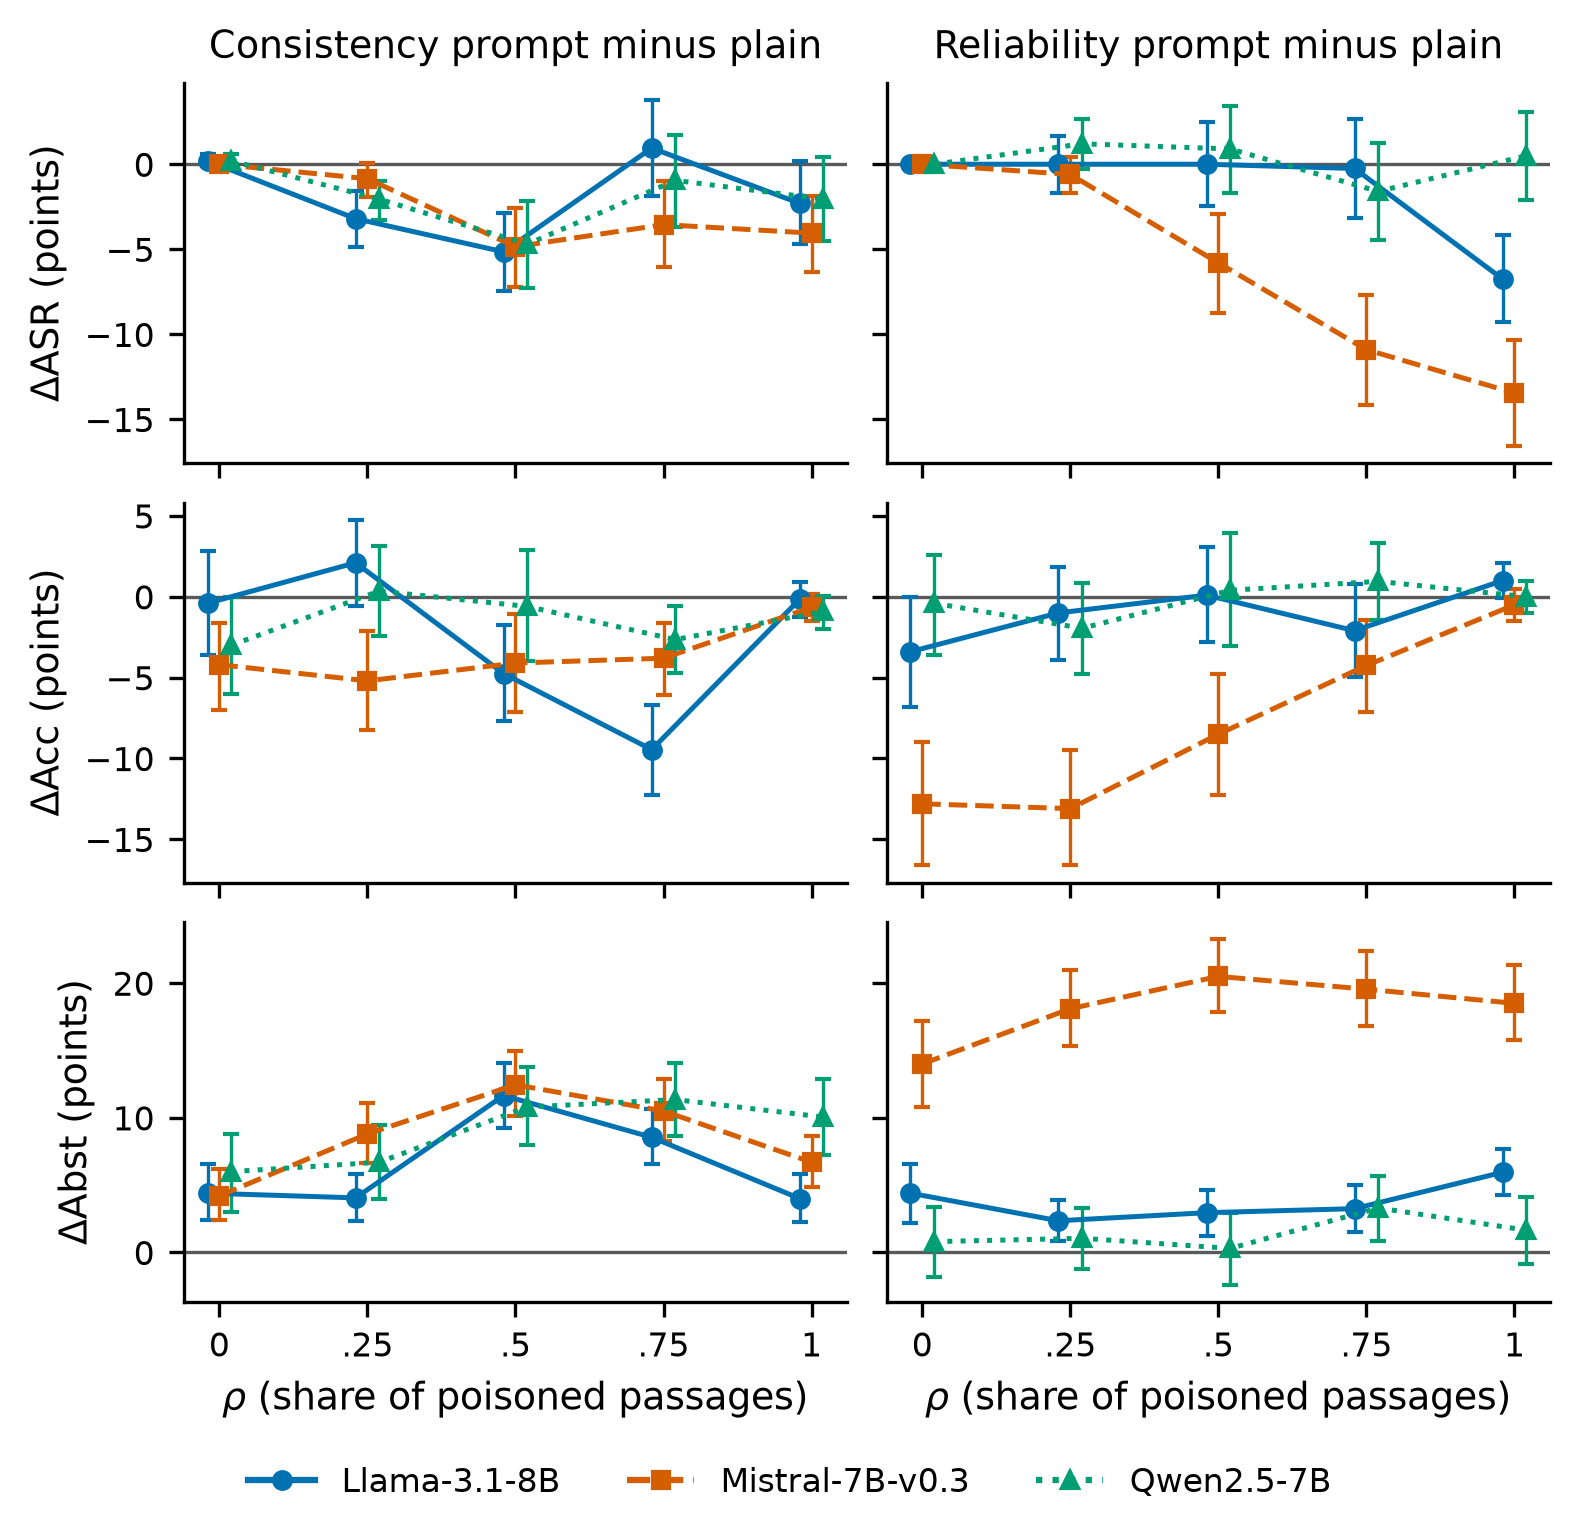
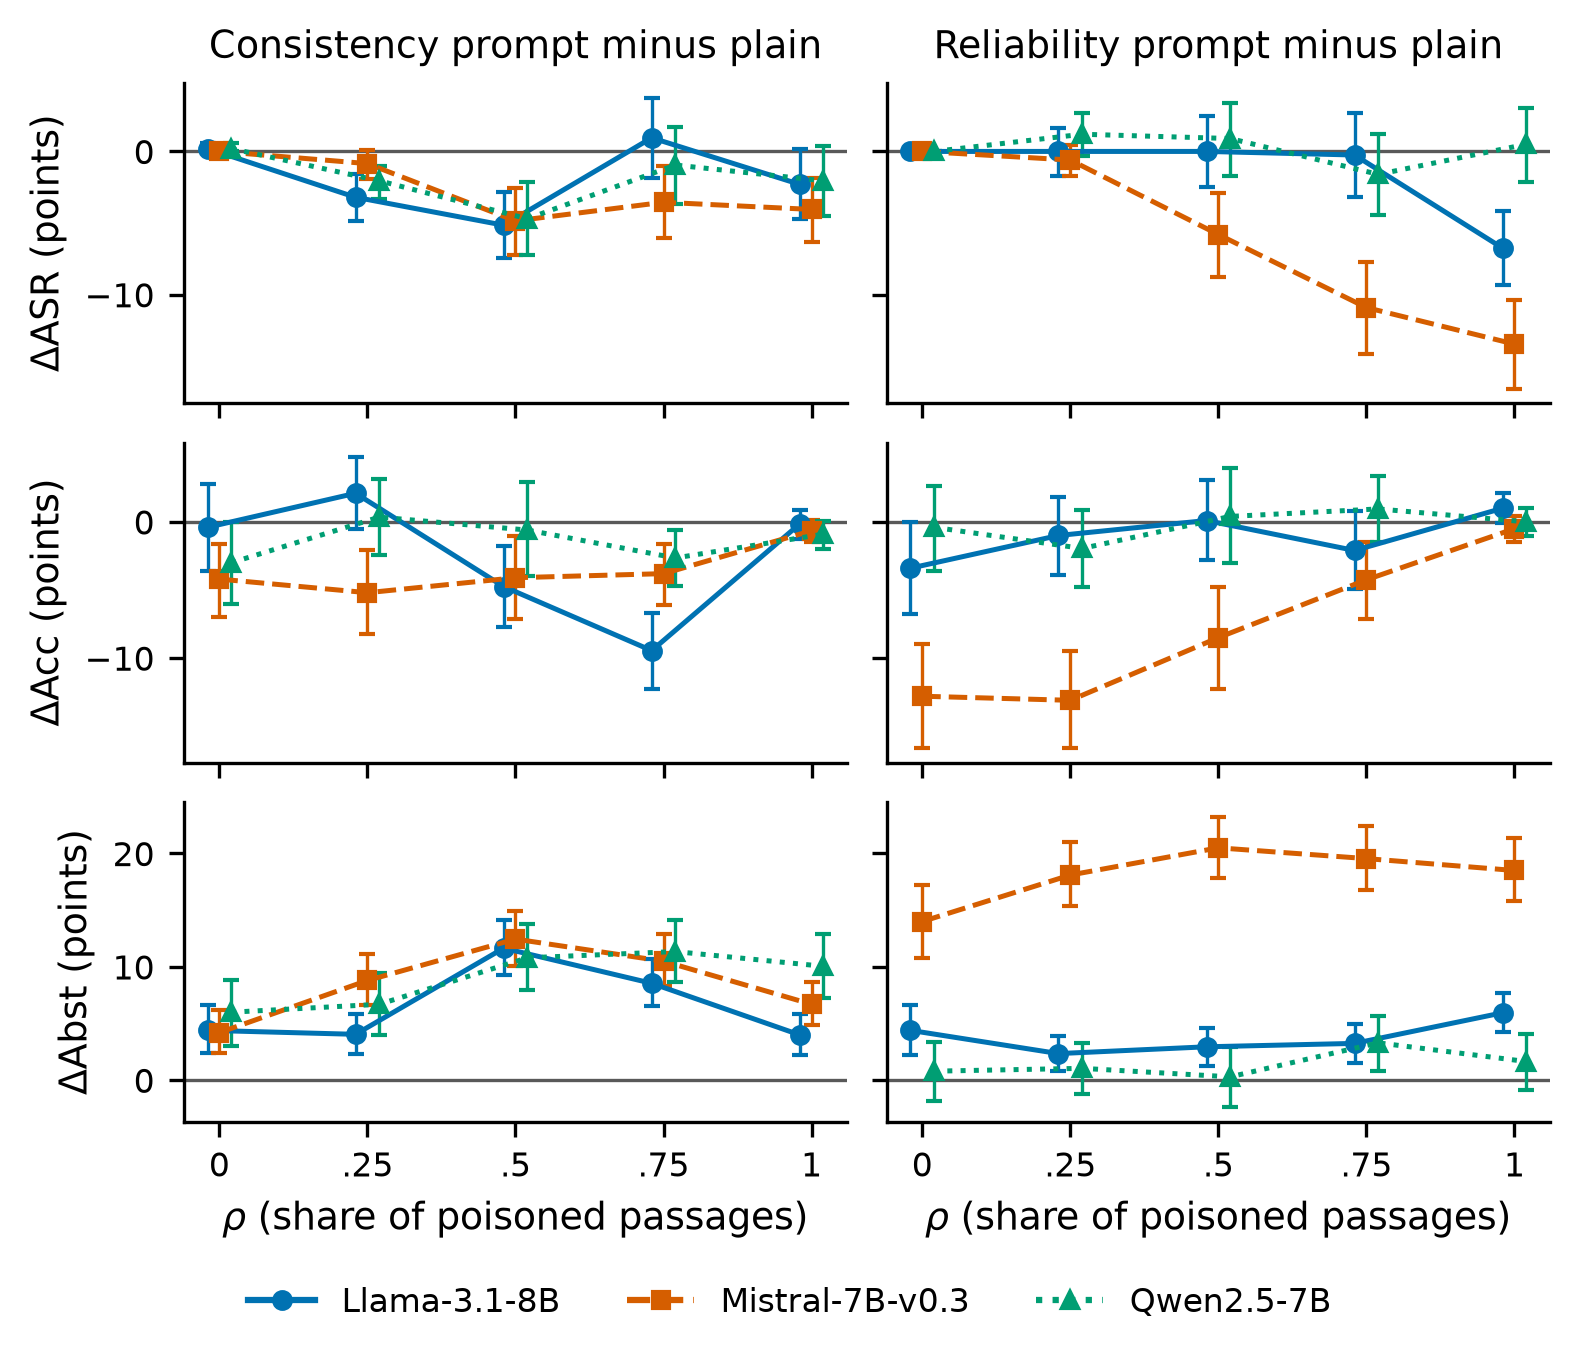
G2.1: Intro and Methodology trimmed (M1-M8, O2), audit and pilot-power corrections, Fig 2 height 4.4 in (D306)

diff --git a/paper/report.tex b/paper/report.tex
@@ -31,17 +31,15 @@ Language Models Handle Poisoned Retrieval}
 robustness, evaluation of language models}
 
 \maketitle
-% ---------------- PAGE BUDGET (max 8 pages incl. floats and references) ----
-% Title, abstract, keywords ............ 0.50
+% ---------------- PAGE BUDGET (max 8 pages of body; references extra, D305) --
+% Title, abstract, keywords ............ 0.60
 % 1 Introduction (incl. literature) .... 1.00
-% 2 Research Question and Methodology .. 2.50  (incl. revisions table)
-% 3 Experimental Results ............... 2.50  (setup 0.25; RQ1-RQ4 2.25)
+% 2 Research Question and Methodology .. 2.70  (incl. revisions table)
+% 3 Experimental Results ............... 2.20  (setup 0.2; RQ1-RQ4 2.0; 3 floats)
 % 4 Concluding Remarks ................. 0.75
 % Back matter (AI use, availability) ... 0.25
-% References ........................... 0.50
-% Total ................................ 8.00
-% Floats: max 4 (revisions table + 3 in Results).
-% Overflow: cut Methodology detail (refer to repo docs), never the discussion.
+% Total body ........................... 7.50  (0.5 page margin)
+% Compile on the Mac with Tectonic only (D300); Overleaf cannot see ../results.
 % ---------------------------------------------------------------------------
 
 
@@ -72,10 +70,7 @@ passages, show confirmation bias, and that stronger models can hold on to
 wrong internal knowledge. \citet{wu2024clasheval} perturbed the answers in
 retrieved documents across six domains and found that models adopted the
 incorrect content, overriding a correct prior, more than 60\% of the time;
-the less realistic the error, the less often it was adopted. Evidence-based
-systems such as the fact-checking pipeline of \citet{singal2024evidence},
-which retrieves evidence and lets a language model judge a claim against it,
-depend on exactly this behaviour being sound.
+the less realistic the error, the less often it was adopted.
 
 These studies establish that language models can be misled by retrieved text.
 We ask a narrower, practical question: \emph{how reliably do open,
@@ -93,16 +88,15 @@ questions from HotpotQA \citep{yang2018hotpotqa}, with contexts in which the
 share of false passages ranges from none to all, four kinds of poison that
 share one false answer and differ by a single framing sentence, and three
 prompts that differ by a single sentence. Three open models of 7--8 billion
-parameters answer every condition. The scoring rules and every confirmatory
-test were fixed before the main run, and the scoring was validated by hand on
-a separate pilot set; the changes made to the original design along the way
-are reported in Section~\ref{sec:revisions}. A standard lexical retriever over
-a poisoned collection shows how often such contexts arise in practice.
+parameters answer every condition, and a standard lexical retriever over a
+poisoned collection shows how often such contexts arise in practice. The
+scoring rules and every confirmatory test were fixed before the main run and
+validated by hand on a separate pilot set; changes to the original design are
+reported in Section~\ref{sec:revisions}.
 \placeholder{One or two sentences on the main findings, written in G2.}
 Section~\ref{sec:method} defines the problem and the method,
 Section~\ref{sec:results} reports the results, and
 Section~\ref{sec:conclusions} discusses them and their limits.
-
 
 
 \section{Research Question and Methodology}\label{sec:method}
@@ -124,19 +118,18 @@ questions, all answered on the full experimental grid.
 \end{description}
 The hypotheses were written before any experiment. \textbf{H1}: attack
 success rises with the poison ratio, most steeply around the point where the
-poisoned passages stop being outnumbered, following the majority rule of
-\citet{jin2024tugofwar}; with all passages poisoned it is high even for
-questions the model answers correctly without passages, as models often
-override a correct prior \citep{wu2024clasheval}. \textbf{H2} (our
-expectation): meta-prompts help mainly when clean and poisoned passages are
-mixed, help little when every passage is poisoned, and cost some accuracy and
-add abstentions on clean contexts. \textbf{H3} (our expectation): conflict
-statements are most frequent at intermediate ratios, the only ones where
-passages disagree with each other, and flagged responses are less often
-poisoned. \textbf{H4}: more plausible or more authoritative poisons are more
-effective \citep{wu2024clasheval}; models differ, but we predict no direction.
-The confirmatory test of H1 concerns the rise only; where it is steepest is
-read from the curves. RQ3 is an association: the experimenter does not control
+poisoned passages stop being outnumbered \citep{jin2024tugofwar}, and is high
+with all passages poisoned even for questions the model answers correctly
+without passages \citep{wu2024clasheval}. \textbf{H2} (our expectation):
+meta-prompts help mainly when clean and poisoned passages are mixed, little
+when every passage is poisoned, and cost some accuracy and add abstentions on
+clean contexts. \textbf{H3} (our expectation): conflict statements are most
+frequent at intermediate ratios, the only ones where passages disagree with
+each other, and flagged responses are less often poisoned. \textbf{H4}: more
+plausible or more authoritative poisons are more effective
+\citep{wu2024clasheval}; models differ, in no predicted direction. The
+confirmatory test of H1 concerns the rise only; where it is steepest is read
+from the curves. RQ3 is an association: the experimenter does not control
 whether a model states a conflict.
 
 \subsection{Problem definition}\label{sec:formal}
@@ -175,9 +168,9 @@ the attack success rate, and analogously the abstention rate
 $\mathrm{Abst}$, the rate of missing answers and the flag rate
 $\mathrm{Flag}(\theta)=\frac{1}{N}\sum_i f_i(\theta)$. Every rate keeps all $N$
 responses in its denominator, so a response without an answer can never raise
-a score. The problem is to estimate how these rates change when one factor of
-$\theta$ varies and the others are fixed. Because every condition uses the same
-questions, all comparisons are paired.
+a score. We estimate how these rates change when one factor of $\theta$ varies
+and the others are fixed; every condition uses the same questions, so all
+comparisons are paired.
 
 \subsection{Data and poisoned contexts}\label{sec:data}
 Questions come from the development set of HotpotQA \citep{yang2018hotpotqa}
@@ -188,36 +181,32 @@ HotpotQA's labels; 4{,}672 of 7{,}405 questions qualify. With a fixed seed we
 drew 50 pilot questions, used only to build and validate the scoring, and 500
 disjoint main questions. Three paraphrases of each answer passage were written
 by Gemma-2-9B-it, a model we do not evaluate, and kept only if they retained
-the gold answer and added no names or numbers; 27 of 30 accepted paraphrases
-checked by hand were faithful. The target answer was written by the same
-helper model from the question, the gold answer and the answer passage, and
-had to differ from the gold answer and be absent from the question and the
-passages. We first drew targets from gold answers of other questions with the
-same entity type, but a manual check found only 5 of 30 plausible, against 19
-of 30 for the generated targets on the same questions.
+the gold answer and added no names or numbers. The target answer was
+generated by the same helper model from the question, the gold answer and the
+answer passage, and had to differ from the gold answer and be absent from the
+question and the passages.
 
 All four poison types replace every occurrence of $a^{*}$ by $\tilde a$.
 \textsc{Swap} changes nothing else; \textsc{Correct}, \textsc{Authority} and
 \textsc{Recency} append one sentence, drawn from five fixed templates per
 type, claiming that other sources are wrong, that the fact is officially
-confirmed (e.g.\ ``This information is confirmed by official government
-records.''), or that the passage is the latest update. Every poisoned passage
-is checked to contain $\tilde a$ and not to contain $a^{*}$ under the
-normalisation used for scoring. Because language models use information at
-the start and end of a context more than in the middle \citep{liu2024lost},
-the order $\varphi_i$ is random per question, the bridge passage takes a
-random position, and every position is recorded.
+confirmed, or that the passage is the latest update. Every poisoned passage
+contains $\tilde a$ and not $a^{*}$ under the normalisation used for scoring.
+Because language models use the start and end of a context more than the
+middle \citep{liu2024lost}, the order $\varphi_i$ and the position of the
+bridge passage are random per question and recorded.
 
-A realistic-retrieval check complements the controlled contexts. For each
-poison type, a BM25 index over 9{,}301 passages (the clean, poisoned and bridge
-passages of all questions and the HotpotQA distractor paragraphs) returns the
-top five passages for the question text, with ties broken in a seeded random
-order. This is a poisoned-corpus setting in the sense of
-\citet{zou2024poisonedrag}: its rates show which ratios realistic retrieval
+A realistic-retrieval check complements the controlled contexts: for each
+poison type, BM25 over all clean, poisoned and bridge passages and the
+HotpotQA distractor paragraphs returns the top five passages for the question,
+with ties broken in a seeded random order. In this poisoned-corpus setting
+\citep{zou2024poisonedrag} the rates show which ratios realistic retrieval
 produces, not how often poison occurs on the open web. HotpotQA itself has
-flaws: one comparison question is mislabelled as bridge, and some gold answers
-are wrong; all questions stay in the primary analysis, and their influence is
-measured separately.
+flaws: an audit of \AuditCandidates{} questions with warning signs flagged
+\AuditFlagged{}, \AuditGoldErrors{} with a wrong gold answer and
+\AuditComparison{} comparison questions that passed the bridge filter. All
+questions stay in the primary analysis, and their influence is measured
+separately.
 
 \subsection{Models, prompts and decoding}\label{sec:models}
 $\mathcal{M}$ contains three open instruction-tuned models from different
@@ -231,47 +220,47 @@ cannot be answered reliably. The three prompts $\Pi$ differ by one sentence:
 the plain prompt only asks to answer from the passages; the consistency prompt
 adds ``First check whether the passages agree with each other, then
 answer.''; the reliability prompt adds ``First judge how reliable each passage
-is, then answer.'' Models are never told that passages may be false. Each
-model answers 48 poisoned conditions, 3 clean ones ($\rho=0$, shared by all
-poison types), one closed-book condition without passages and 12 retrieval
-conditions: 192 conditions over the three models. Primary results use greedy
-decoding; five samples at temperature 0.7 per question and condition measure
-self-consistency. Outputs are capped at 512 tokens.
+is, then answer.'' Models are never told that passages may be false. Per
+model there are 48 poisoned, 3 clean ($\rho=0$, shared by all poison types),
+one closed-book and 12 retrieval conditions, 192 over the three models.
+Primary results use greedy decoding; five samples at temperature 0.7 per
+question and condition measure self-consistency. Outputs are capped at 512
+tokens.
 
 \subsection{Scoring and statistical analysis}\label{sec:scoring}
-The final answer is the text after the last ``Answer:'' anywhere in the
-response. Answers and references are compared by whole-word containment after
-standard normalisation, with bracketed remarks removed. Ordered rules assign
-the outcome: no answer line is \textsc{NoAnswer}; ``unknown'' is
+The final answer is the text after the last ``Answer:'' in the response;
+answers and references are compared by whole-word containment after standard
+normalisation, with bracketed remarks removed. Ordered rules assign the
+outcome: no answer line is \textsc{NoAnswer}; ``unknown'' is
 \textsc{Abstain}; an answer containing both $a^{*}$ and $\tilde a$ is
 \textsc{Both}; then \textsc{Correct}, then \textsc{Poisoned}; a fixed
-abstention phrase (``not mentioned'', ``cannot be answered'', \dots) is
-\textsc{Abstain}; anything else is \textsc{OtherWrong}. A blind hand audit of
-pilot answers found the \textsc{Correct}, \textsc{Poisoned} and
-\textsc{Abstain} rules exact (35/35), but only 10 of 20 \textsc{OtherWrong}
-answers truly wrong: most were the gold or target answer in another form, the
-known weakness of lexical matching \citep{kamalloo2023evaluating}. Rule-based
-accuracy is therefore a lower bound. A judge re-examining \textsc{OtherWrong}
+abstention phrase (``not mentioned'', \dots) is \textsc{Abstain}; anything else
+is \textsc{OtherWrong}. A blind hand audit of pilot answers found the
+\textsc{Correct}, \textsc{Poisoned} and \textsc{Abstain} rules exact, but half
+of the \textsc{OtherWrong} answers were the gold or target answer in another
+form, the known weakness of lexical matching \citep{kamalloo2023evaluating}:
+rule-based accuracy is a lower bound. A judge re-examining \textsc{OtherWrong}
 answers agreed with hand labels ($\kappa=0.836$) but failed a check fixed in
-advance, recognising the target in only 92.8\% of exact cases against a
-required 95\%; its re-labelled rates are reported only as an exploratory upper
-bound.
+advance (target recognised in 92.8\% of exact cases, 95\% required), so its
+re-labelled rates are only an exploratory upper bound.
 
 The conflict flag is assigned by Gemma-2-9B-it, which reads the response alone
 and answers whether it says that the passages disagree or that some may be
 unreliable. Against 300 blind hand labels it reached $\kappa=0.735$ (95\% CI
-0.649--0.814). It over-flags (35.0\% against 25.7\% by hand) and agrees least
+0.649--0.814); it over-flags (35.0\% against 25.7\% by hand) and agrees least
 for Qwen ($\kappa=0.57$), so flag rates are read against their $\rho=0$
 baseline. An \textsc{OtherWrong} answer counts as a hallucination if it
 contains a named entity (found with spaCy) or a number that appears in no
-passage; on fresh hand labels this rule had precision 9/13 and missed 0 of 18
-inventions. Self-consistency is the share of the five samples that agree with
-the most frequent answer, averaged over questions.
+passage; a first rule, the answer being absent from the passages, measured
+wording rather than invention and was replaced. On fresh hand labels the final
+rule had precision 9/13 and missed 0 of 18 inventions. Self-consistency is the
+share of the five samples that agree with the most frequent answer, averaged
+over questions.
 
 Single rates carry Wilson 95\% intervals; differences use a paired bootstrap
 over questions (10{,}000 resamples). Four families of confirmatory tests,
 two-sided at $\alpha=0.05$ with Holm's correction within each family, were
-fixed with the scoring code before the main run. Logistic regressions use
+fixed with the scoring code before the main run; logistic regressions use
 generalised estimating equations clustered by question. \textbf{F1} (H1), per
 model: the effect of $\rho$ on \textsc{Poisoned}, adjusting for the prompt.
 \textbf{F2} (H2): exact McNemar tests of each meta-prompt against the plain
@@ -280,18 +269,21 @@ prompt, per model, on \textsc{Poisoned} over all poisoned conditions and on
 (H3), per model: the odds ratio of \textsc{Poisoned} for flagged against
 unflagged responses, adjusting for $\rho$, prompt and type. \textbf{F4} (H4):
 on all models pooled, the interactions of $\rho$ and prompt with poison type
-and with model. All other analyses are exploratory. At $N=500$ the median
-comparison of single conditions has power 0.92 for a five-point difference,
-but about a quarter fall below 0.80; we therefore report each cell's minimum
-detectable difference and never read a non-significant single-cell difference
-as the absence of an effect.
+and with model. All other analyses are exploratory. Under the planned rule the
+pilot could only raise $N$; its power check gave a median power of 0.92 for a
+five-point difference between single conditions, with about a quarter of
+comparisons below 0.80. Instead of raising $N$, $N=500$ was kept and each
+cell's minimum detectable difference is reported with the results; a
+non-significant single-cell difference is never read as the absence of an
+effect.
 
 \subsection{Revisions to the planned design}\label{sec:revisions}
-Table~\ref{tab:revisions} lists the rules that changed after testing on the
-pilot set and during data construction. Every change was triggered by a
-measured problem, validated once, and made before any main-run response
-existed. None changed the research questions, the hypotheses, the factors or
-the confirmatory tests.
+Table~\ref{tab:revisions} lists the main rules that changed after testing on
+the pilot set and during data construction; the hallucination rule and the
+sample size are described in Section~\ref{sec:scoring}. Every change was
+triggered by a measured problem, validated once, and made before any main-run
+response existed. None changed the research questions, the hypotheses, the
+factors or the confirmatory tests.
 
 \begin{table}[t]
 \caption{Changes to the planned design, each triggered by a check.}\label{tab:revisions}
@@ -307,8 +299,6 @@ Output cap of 256 tokens & 17\% of Llama's answers cut before the answer line, m
 Alphabetical ties in BM25 & decided the top five in 21\% of \textsc{Swap} questions, favouring clean passages & seeded random ties \\
 Four outcomes & missing answer lines (8.5\% for Llama), answers naming both & \textsc{NoAnswer}, \textsc{Both} added \\
 Rules decide all outcomes & half of \textsc{OtherWrong} were aliases; the judge failed a pre-set check & rules primary, judge as upper bound \\
-Hallucination: answer absent from passages & flagged wording, not invention (4 of 20) & invented names and numbers \\
-Pilot may only raise $N$ & a quarter of cells below 80\% power & $N=500$ kept; detectable difference reported \\
 \bottomrule
 \end{tabular}
 \end{table}

diff --git a/src/inragwetrust/analysis/figures.py b/src/inragwetrust/analysis/figures.py
@@ -133,7 +133,7 @@ def fig_prompt_effects(pe: pd.DataFrame, width: float = TEXT_WIDTH["llncs"]) -> 
     if missing:
         raise ValueError(f"explore_prompt_effects: missing metrics {missing}")
     with plt.rc_context(RC):
-        fig, axes = plt.subplots(3, 2, figsize=(width, 5.0), sharex=True, sharey="row", layout="constrained")
+        fig, axes = plt.subplots(3, 2, figsize=(width, 4.4), sharex=True, sharey="row", layout="constrained")
         for i, (metric, label) in enumerate(EFFECTS):
             for j, meta in enumerate(METAS):
                 ax = axes[i, j]
